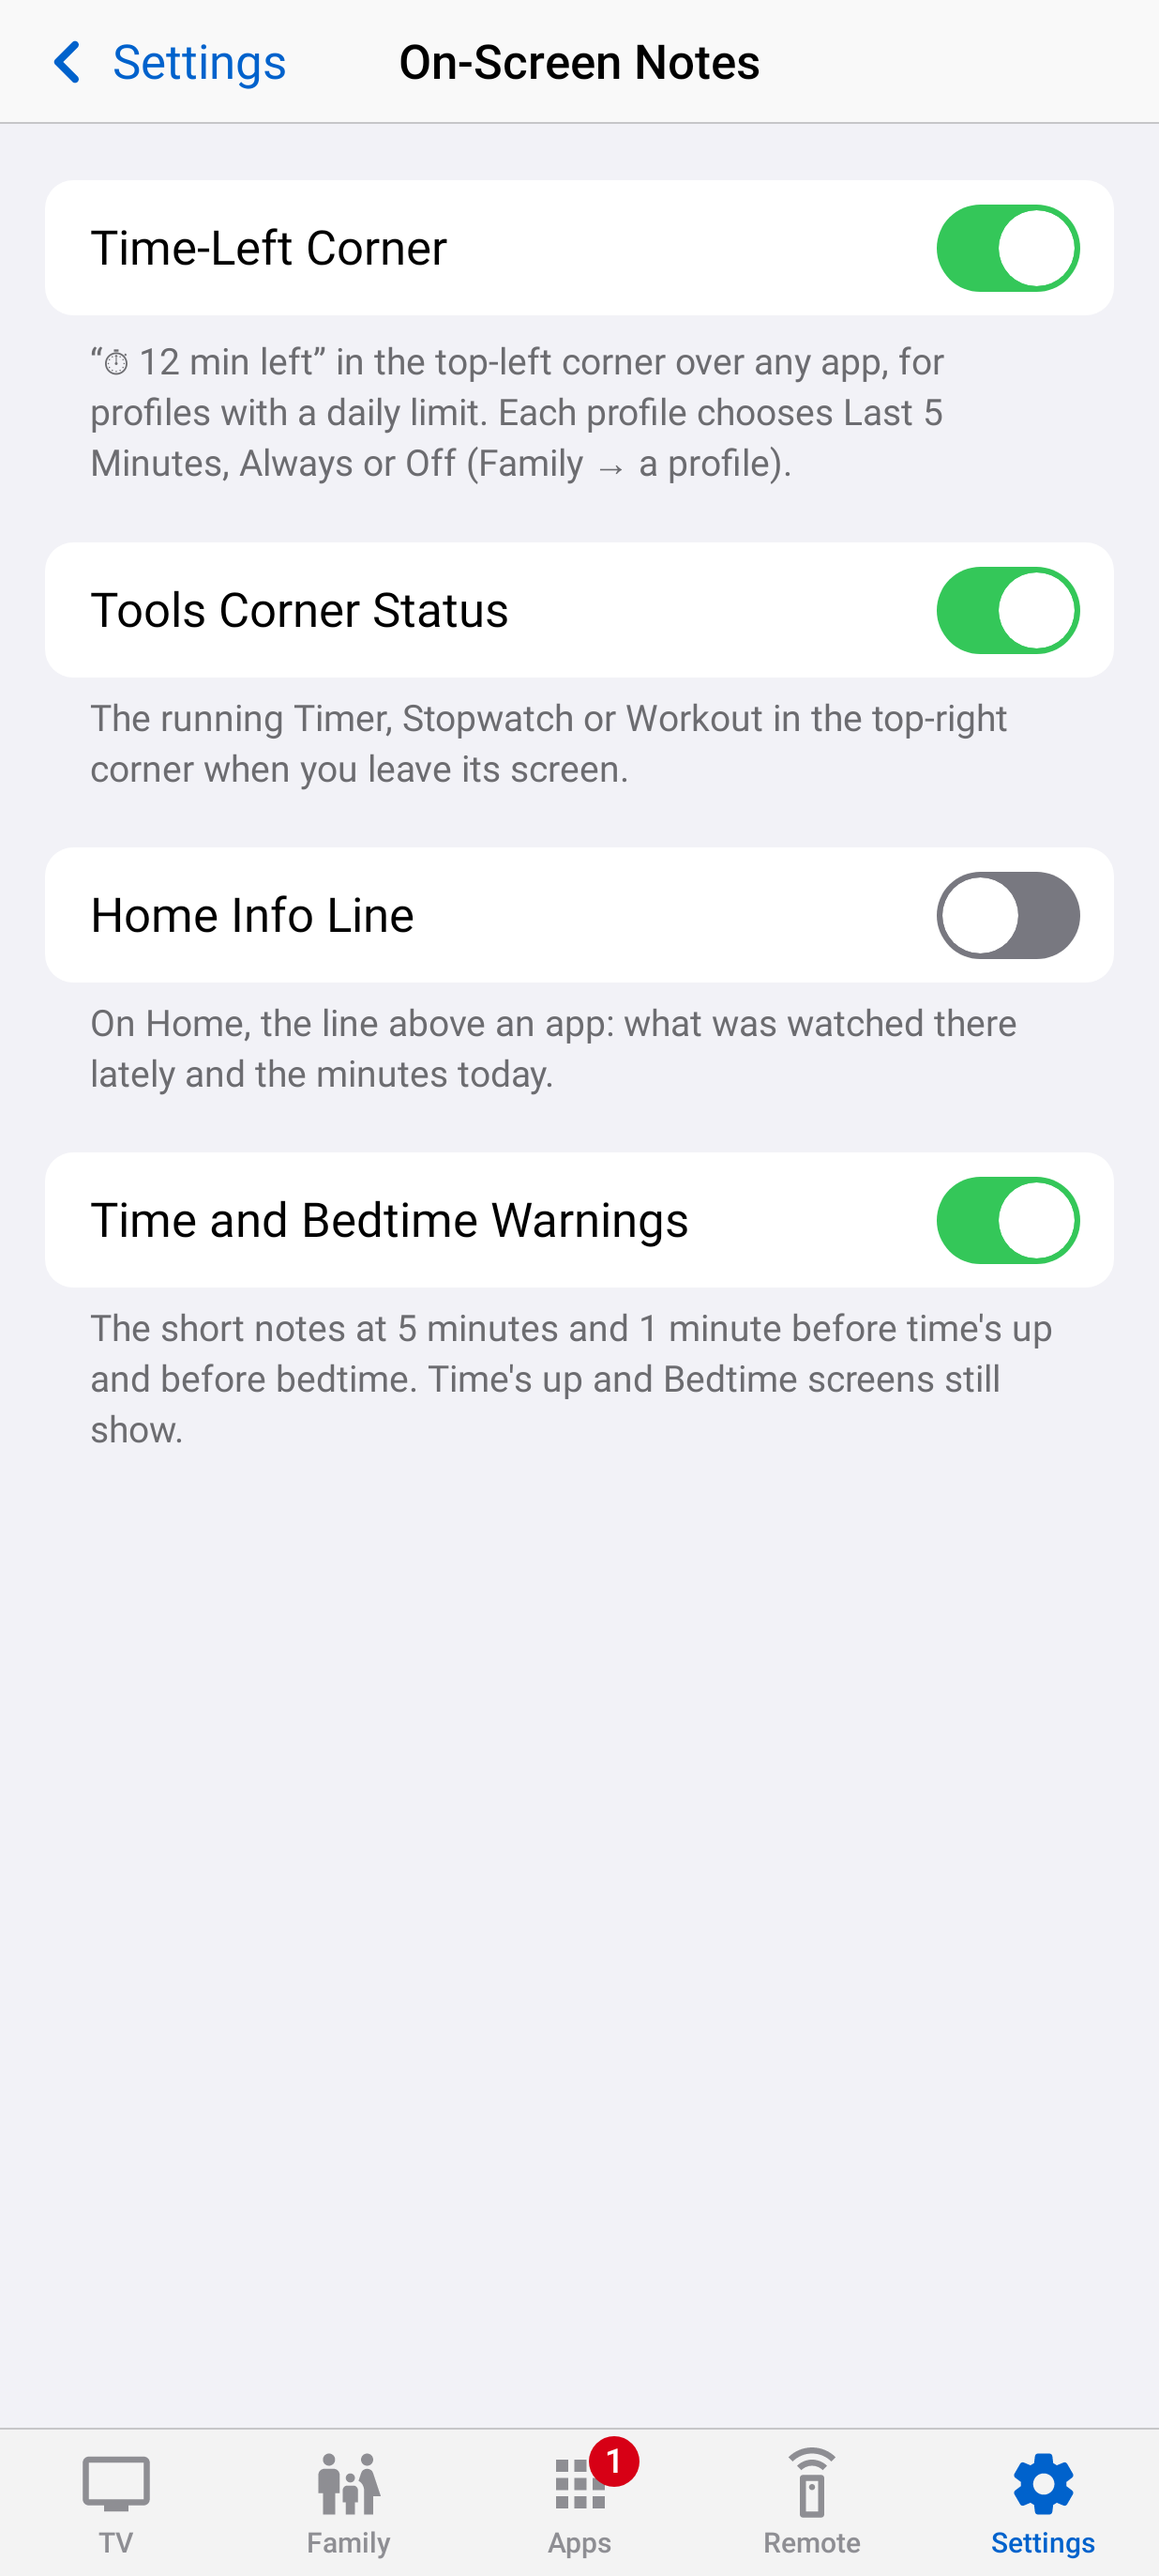
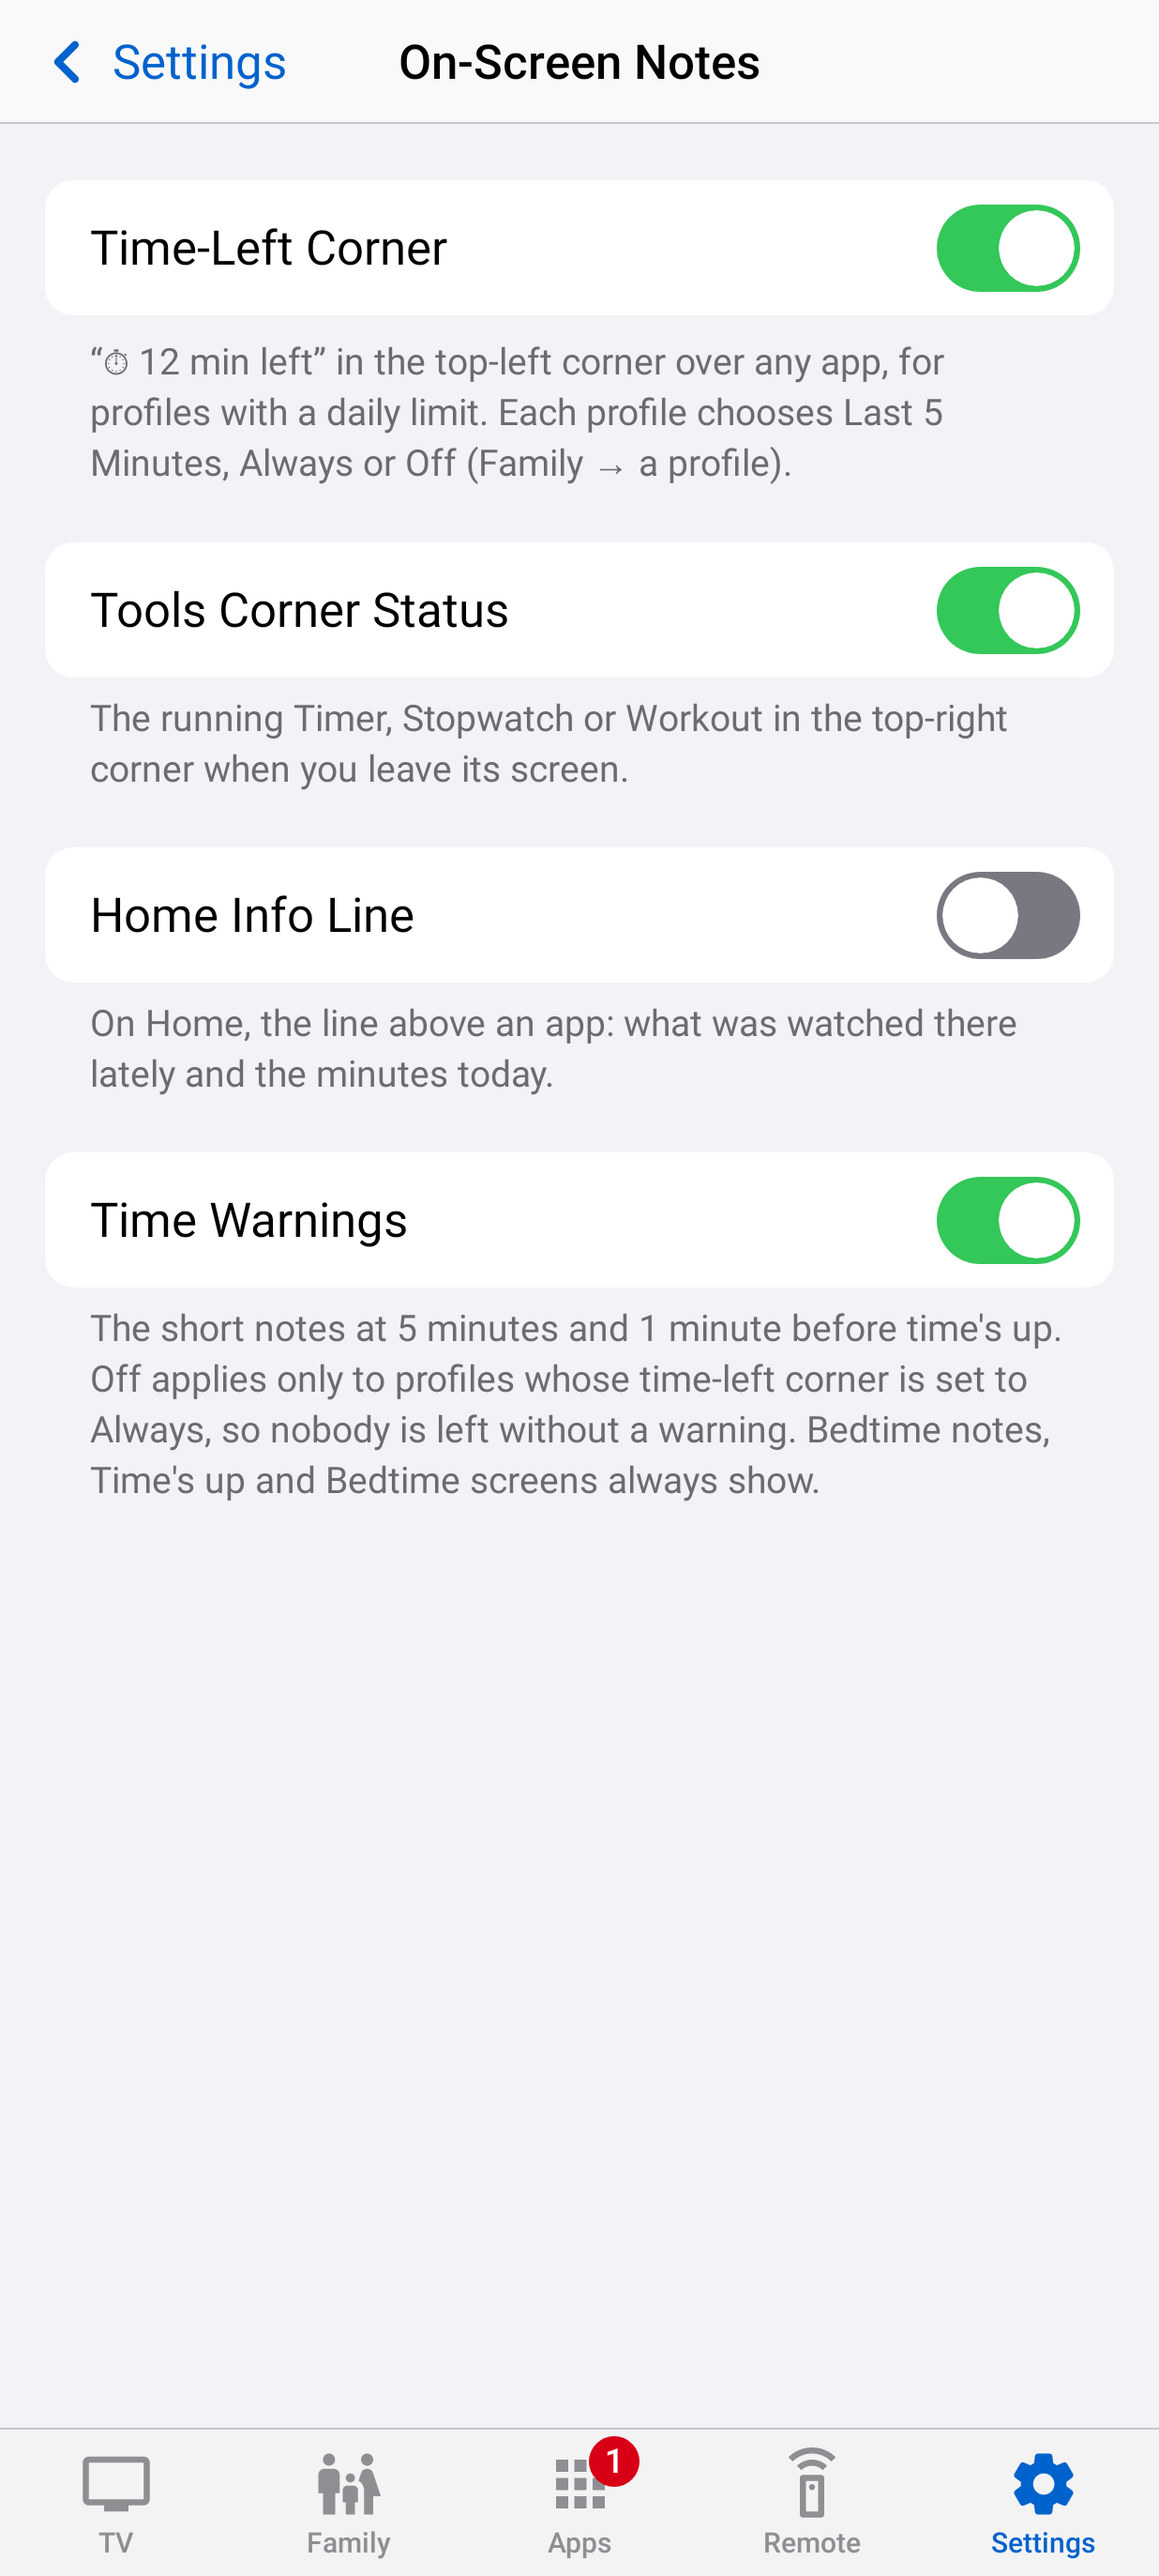
2.9.0: Time's up on the second; time warnings off only where the corner is Always
- The guard checks again at the second a limit runs out, not up to 20 s later
- The 5- and 1-minute notes can be switched off only for profiles whose
  time-left corner is set to Always; bedtime notes always show
- On-Screen Notes: "Time Warnings", with the rule in the footer; tests

Changed region(s): [[0.0615, 0.5264, 0.8916, 0.5883], [0.3382, 0.4645, 0.5841, 0.4954], [0.1845, 0.4645, 0.3074, 0.4954]]

diff --git a/companion/src/main/java/com/ajit/tvhero/remote/ui/SettingsTab.kt b/companion/src/main/java/com/ajit/tvhero/remote/ui/SettingsTab.kt
@@ -294,8 +294,9 @@ internal fun OnScreenPage(state: AppState, preview: com.ajit.tvhero.remote.OnScr
         section("info", footer = "On Home, the line above an app: what was watched there lately and the minutes today.") {
             ToggleRow("Home Info Line", n.homeInfo) { set("home_info", it) }
         }
-        section("warn", footer = "The short notes at 5 minutes and 1 minute before time's up and before bedtime. Time's up and Bedtime screens still show.") {
-            ToggleRow("Time and Bedtime Warnings", n.warnings) { set("warnings", it) }
+        section("warn", footer = "The short notes at 5 minutes and 1 minute before time's up. Off applies only to profiles whose time-left corner is set to Always, " +
+            "so nobody is left without a warning. Bedtime notes, Time's up and Bedtime screens always show.") {
+            ToggleRow("Time Warnings", n.warnings) { set("warnings", it) }
         }
     }
 }

diff --git a/tv-launcher/src/main/java/com/ajit/tvhero/GuardService.java b/tv-launcher/src/main/java/com/ajit/tvhero/GuardService.java
@@ -117,7 +117,8 @@ public class GuardService extends AccessibilityService {
         public void run() {
             try { tick(); } catch (RuntimeException e) { Log.w(TAG, "tick", e); }
             // Every 20 s; every 5 s while the time-left corner shows, so its minutes stay right.
-            main.postDelayed(this, ui != null && ui.cornerShowing() ? 5_000 : TICK_MS);
+            // and at the second a limit runs out, so Time's up comes on time.
+            main.postDelayed(this, nextTickMs());
         }
     };
 
@@ -226,6 +227,13 @@ public class GuardService extends AccessibilityService {
         // corner notes don't (2.9: they used to stop the count while the video played on behind them).
         if (time.onWindow(SystemClock.elapsedRealtime(), pkg, windowKind(pkg, event.getClassName()))) frontChanged(pkg);
         check(pkg);
+    }
+
+    private long nextTickMs() {
+        long usual = ui != null && ui.cornerShowing() ? 5_000 : TICK_MS;
+        Profiles.Kid kid = profiles == null ? null : profiles.activeKid();
+        if (kid == null || time == null) return usual;
+        return ScreenTime.nextCheckMs(usual, time.counting(), profiles.secondsLeft(kid));
     }
 
     private void frontChanged(String pkg) {
@@ -606,7 +614,7 @@ public class GuardService extends AccessibilityService {
             }));
         }
         items.add(new Overlays.Item("Back", null, () -> parentMenu(backRow)));
-        ui.menu(Overlays.Kind.MENU, "On-Screen Notes", "Switch off a note for everyone. Limits, bedtime and lock screens still apply. "
+        ui.menu(Overlays.Kind.MENU, "On-Screen Notes", "Switch off a note for everyone. Limits, bedtime and lock screens still apply; time warnings go only where a profile's corner is Always. "
                 + "Each profile also chooses when its time-left corner shows (Profiles).", items, () -> parentMenu(backRow), focus);
     }
 
@@ -1020,11 +1028,11 @@ public class GuardService extends AccessibilityService {
         if (ui.kind() == Overlays.Kind.TIMES_UP || ui.kind() == Overlays.Kind.BEDTIME || ui.kind() == Overlays.Kind.LOCKED) ui.hide();
         int toBed = kid.minutesToBedtime(m);
         String day = Profiles.today();
-        boolean notes = onScreen.on(OnScreen.WARNINGS);
+        boolean notes = OnScreen.timeWarnings(onScreen.on(OnScreen.WARNINGS), onScreen.on(OnScreen.TIME_LEFT), kid.corner);
         if (notes && left > 0 && left <= 5 && warned.add(day + kid.id + "L" + (left <= 1 ? 1 : 5))) {
             ui.toast(left <= 1 ? "1 minute of TV left today" : left + " minutes of TV left today");
         }
-        if (notes && toBed >= 0 && toBed <= 5 && warned.add(day + kid.id + "B" + (toBed <= 1 ? 1 : 5))) {
+        if (toBed >= 0 && toBed <= 5 && warned.add(day + kid.id + "B" + (toBed <= 1 ? 1 : 5))) {
             ui.toast(toBed <= 1 ? "Bedtime in 1 minute" : "Bedtime in " + toBed + " minutes");
         }
     }

diff --git a/tv-launcher/src/test/java/com/ajit/tvhero/ScreenTimeTest.java b/tv-launcher/src/test/java/com/ajit/tvhero/ScreenTimeTest.java
@@ -157,4 +157,23 @@ public class ScreenTimeTest {
         play(s(10), s(70));
         assertEquals(60, sec("kid", YT));
     }
+
+    @Test
+    public void timesUpComesOnTheSecond() {
+        assertEquals(20_000, ScreenTime.nextCheckMs(20_000, true, -1));      // no limit
+        assertEquals(20_000, ScreenTime.nextCheckMs(20_000, true, 300));     // plenty left
+        assertEquals(7_250, ScreenTime.nextCheckMs(20_000, true, 7));        // runs out in 7 s
+        assertEquals(20_000, ScreenTime.nextCheckMs(20_000, false, 7));      // not counting: nothing runs out
+        assertEquals(20_000, ScreenTime.nextCheckMs(20_000, true, 0));       // already up: the usual check shows it
+        assertEquals(5_000, ScreenTime.nextCheckMs(5_000, true, 60));        // corner showing
+    }
+
+    @Test
+    public void timeWarningsOffOnlyWhereTheCornerAlwaysShows() {
+        assertTrue(OnScreen.timeWarnings(true, true, Profiles.CORNER_ALWAYS));
+        assertFalse(OnScreen.timeWarnings(false, true, Profiles.CORNER_ALWAYS));
+        assertTrue(OnScreen.timeWarnings(false, true, Profiles.CORNER_LAST5));
+        assertTrue(OnScreen.timeWarnings(false, true, Profiles.CORNER_OFF));
+        assertTrue(OnScreen.timeWarnings(false, false, Profiles.CORNER_ALWAYS));   // corner switched off for everyone
+    }
 }

diff --git a/tv-launcher/src/main/java/com/ajit/tvhero/OnScreen.java b/tv-launcher/src/main/java/com/ajit/tvhero/OnScreen.java
@@ -40,12 +40,20 @@ final class OnScreen {
         for (String k : KEYS) if (b.has(k)) set(k, b.optBoolean(k, true));
     }
 
+    /**
+     * The 5- and 1-minute notes can be switched off only for a profile whose time-left corner already shows
+     * all the time, so a child is never left without warning. Bedtime notes always show.
+     */
+    static boolean timeWarnings(boolean warningsOn, boolean cornerOn, String profileCorner) {
+        return warningsOn || !(cornerOn && Profiles.CORNER_ALWAYS.equals(profileCorner));
+    }
+
     static String label(String key) {
         switch (key) {
             case TIME_LEFT: return "Time-Left Corner";
             case TOOLS_CORNER: return "Tools Corner Status";
             case HOME_INFO: return "Home Info Line";
-            default: return "Time and Bedtime Warnings";
+            default: return "Time Warnings";
         }
     }
 }

diff --git a/tv-launcher/src/main/java/com/ajit/tvhero/ScreenTime.java b/tv-launcher/src/main/java/com/ajit/tvhero/ScreenTime.java
@@ -119,6 +119,16 @@ final class ScreenTime {
         changed(now);
     }
 
+    /**
+     * When the guard should look again: its usual interval, or the second the time runs out if that comes
+     * sooner, so Time's up appears on time instead of up to 20 seconds late. Never sooner than a second.
+     */
+    static long nextCheckMs(long usualMs, boolean counting, int secondsLeft) {
+        long d = usualMs;
+        if (counting && secondsLeft > 0) d = Math.min(d, secondsLeft * 1000L + 250);
+        return Math.max(1000, d);
+    }
+
     // ---------- state ----------
 
     String front() { return front; }

diff --git a/docs/USER-GUIDE.md b/docs/USER-GUIDE.md
@@ -18,7 +18,7 @@ Everything tv-hero does, screen by screen. For installing, see [the website](htt
   - internet control, debugging, Guest mode, **Guest Time** (a daily allowance shared by all guests)
 - **What counts as screen time:** only time with an app open (YouTube, Hotstar, Live TV, the browser…), counted by the second. Home, the clock screensaver and Settings don't count; the volume bar, the keyboard or a notification over a video don't stop it. Family → a profile → *Today, App by App* shows where the minutes went.
 - **Time-left corner:** "⏱ 12 min left" in the top-left corner over any app, for a profile with a daily limit. Per profile: *Last 5 Minutes* (default), *Always* or *Off* (Family → a profile → Time-Left Corner, or Parent Menu → Profiles → a profile).
-- **On-Screen Notes:** Settings → On-Screen Notes (or Parent Menu → On-Screen Notes) switches off, for everyone, the time-left corner, the tools' corner status, the Home info line or the 5- and 1-minute warnings. Limits, bedtime and lock screens still apply.
+- **On-Screen Notes:** Settings → On-Screen Notes (or Parent Menu → On-Screen Notes) switches off, for everyone, the time-left corner, the tools' corner status, the Home info line or the 5- and 1-minute warnings (only for profiles whose corner is set to Always, so nobody goes without a warning). Limits, bedtime and lock screens still apply.
 - **Time's up, Bedtime and Paused lock the TV.** Whatever was playing is paused, the app is sent away and nothing else opens behind the screen. All a child can do there is switch profile (the PIN is needed to move to a profile with no daily limit), **Ask for Time** (it shows on the parents' phones under Needs You) or enter the Parent PIN.
 - **Profile switches:** a kid or Guest can change profile on the TV once a day (Family → Profile Switches on the phone, or Profile Switches in the Parent Menu). After that, and always for a profile with no daily limit, the TV offers **Ask a Parent** (Needs You on the phone) or the Parent PIN.
 - **Earn Time** (Time's up only): questions in Maths, English words, General knowledge, Hindi and Puzzles, at Easy, Medium or Hard. Each right answer adds 5 minutes, up to 15 minutes a day (both set per profile). A wrong answer costs nothing, but three wrong in a row means a 10-minute break, so guessing doesn't pay. The questions are built into the TV app: no internet, no tracking; the TV keeps only today's count.

diff --git a/CHANGELOG.md b/CHANGELOG.md
@@ -9,7 +9,7 @@ Fair time.
 - **Screen time is exact.** The volume bar, the keyboard, a notification or tv-hero's own corner notes used to stop the count while the video played on behind them. Now only a full-screen app changes what's in front, time is counted by the second, and every app, profile, screen or lock-screen change closes the running total, so no seconds go to the wrong app or profile. Where the phone sets the TV up (Set Up a New TV, or updating the TV app from the phone), the TV also uses Android's own app-usage record to check what's in front.
 - **Today, app by app.** Each profile's page on the phone (and Guest's) shows where today's minutes went.
 - **Time-left corner.** A small "⏱ 12 min left" in the top-left corner over any app, for profiles with a daily limit: Last 5 Minutes (default), Always or Off per profile, on the phone or in the TV's Parent Menu.
-- **On-Screen Notes.** One place (phone → Settings → On-Screen Notes, or Parent Menu → On-Screen Notes) to switch off the time-left corner, the tools' corner status, the Home info line, or the 5- and 1-minute warnings. Limits, bedtime and lock screens always apply.
+- **On-Screen Notes.** One place (phone → Settings → On-Screen Notes, or Parent Menu → On-Screen Notes) to switch off the time-left corner, the tools' corner status, the Home info line, or the 5- and 1-minute warnings (only for profiles whose corner is set to Always, so nobody goes without a warning). Limits, bedtime and lock screens always apply.
 
 ## 2.8.1
 
